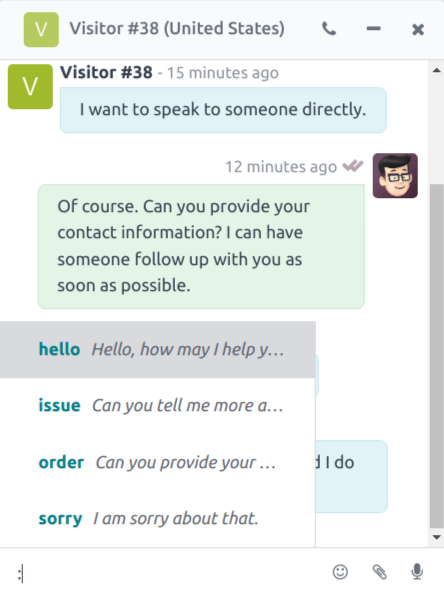
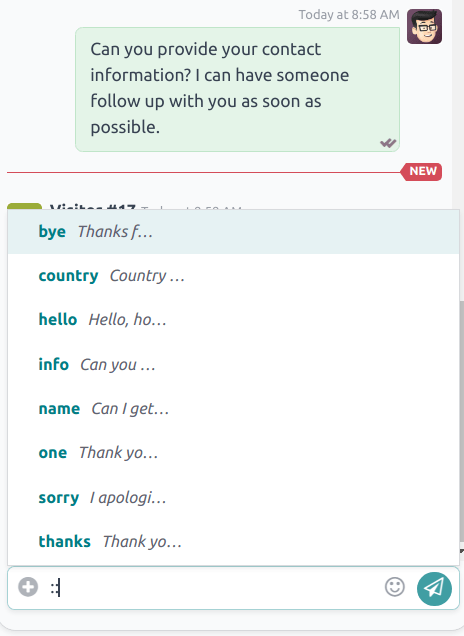
[IMP] Livechat: Canned responses update
closes odoo/documentation#12201

X-original-commit: c8b8fd5c60ccb1f544f0cee2207d5c8f1fcb9068

diff --git a/content/applications/websites/livechat/responses.rst b/content/applications/websites/livechat/responses.rst
@@ -29,7 +29,6 @@ view of the chat.
    ticket, so the operator can go there directly to add any additional information, if necessary.
 
    .. image:: responses/responses-ticket-link.png
-      :align: center
       :alt: View of the chat window with a helpdesk ticket created in Odoo Live Chat.
 
 More information about each available command can be found below.
@@ -73,7 +72,6 @@ After entering the `/ticket` command, type a title for the ticket into the chat 
 `Enter`.
 
 .. image:: responses/helpdesk.png
-   :align: center
    :alt: View of the results from a helpdesk search in a Live Chat conversation.
 
 The newly created ticket will be added to the *Helpdesk* team that has live chat enabled. If more
@@ -98,7 +96,6 @@ After entering the `/search_tickets` command, type a keyword or ticket number, t
 conversation window.
 
 .. image:: responses/helpdesk-search.png
-   :align: center
    :alt: View of the results from a helpdesk search in a Live Chat conversation.
 
 .. note::
@@ -111,7 +108,6 @@ If an operator types `/history` in the chat window, it generates a list of the m
 visitor has viewed on the website (up to 15).
 
 .. image:: responses/responses-history.png
-   :align: center
    :alt: View of the results from a /history command in a Live Chat conversation.
 
 Lead
@@ -120,7 +116,6 @@ Lead
 By typing `/lead` in the chat window, an operator can create a *lead* in the **CRM** application.
 
 .. image:: responses/responses-lead.png
-   :align: center
    :alt: View of the results from a /lead command in a Live Chat conversation.
 
 .. important::
@@ -172,25 +167,24 @@ field, and type the message that should replace the shortcut.
    Try to connect the shortcut to the topic of the substitution. The easier it is for the operators
    to remember, the easier it is to use the canned responses in conversations.
 
+Authorized groups
+~~~~~~~~~~~~~~~~~
+
+When a new canned response is created, it can **only** be utilized by the operator that created it.
+To allow the response to be used by other operators, select one or more :ref:`groups
+<access-rights/groups>` from the :guilabel:`Authorized Groups` drop-down list.
+
 Use canned responses in a live chat conversation
 ------------------------------------------------
 
-To use a canned response during a live chat conversation, type a colon (`:`) into the chat window,
-followed by the shortcut.
-
-.. example::
-   An operator is chatting with a visitor. As soon as they type `:` they would see a list of
-   available responses. They can manually select one from the list, or continue to type. If they
-   want to use the canned response `'I am sorry to hear that.'`, they would type `:sorry`.
-
-.. image:: responses/canned-responses.png
-   :align: center
-   :alt: View of a chat window and the use of a canned response in Odoo Live Chat.
+To use a canned response in a conversation, click the :icon:`fa-plus-circle` :guilabel:`(plus)` icon
+in the message window. Then, click :guilabel:`Insert a Canned Response`. This opens a list of
+available canned responses. Either select a response from the list, or type the appropriate
+shortcut, then click the :icon:`fa-paper-plane` :guilabel:`(send)` icon or hit :kbd:`Enter`.
 
 .. tip::
-   Typing `:` into a chat window on its own will generate a list of available canned responses.
+   Typing `::` into a chat window on its own generates a list of available canned responses.
    Responses can be manually selected from the list, in addition to the use of shortcuts.
 
    .. image:: responses/response-list.png
-      :align: center
       :alt: View of a chat window and the list of available canned responses.
